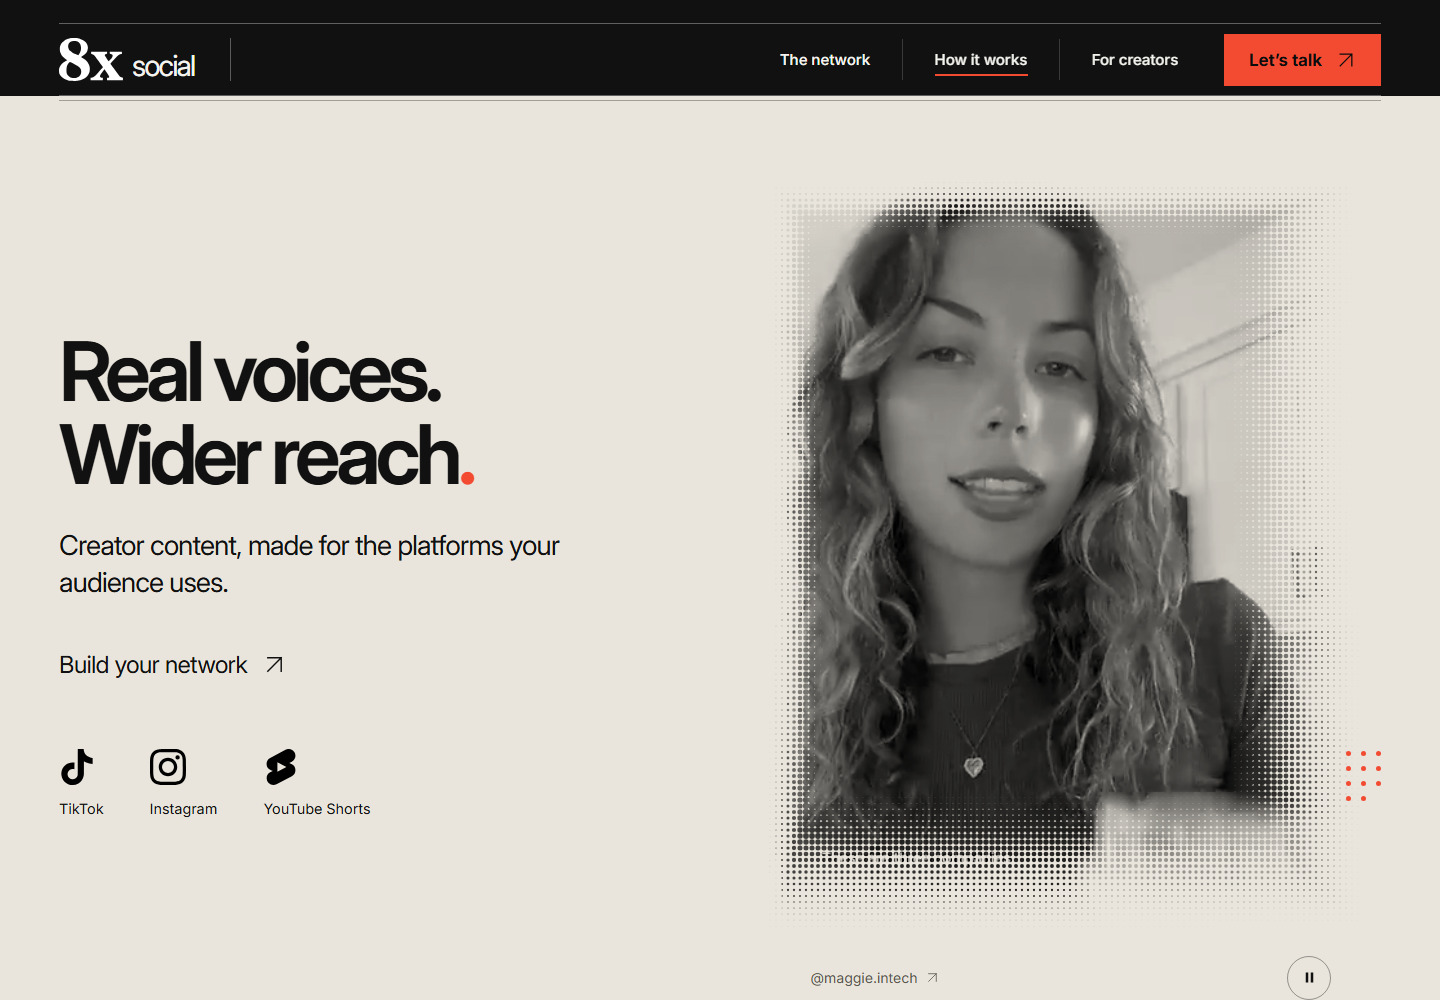
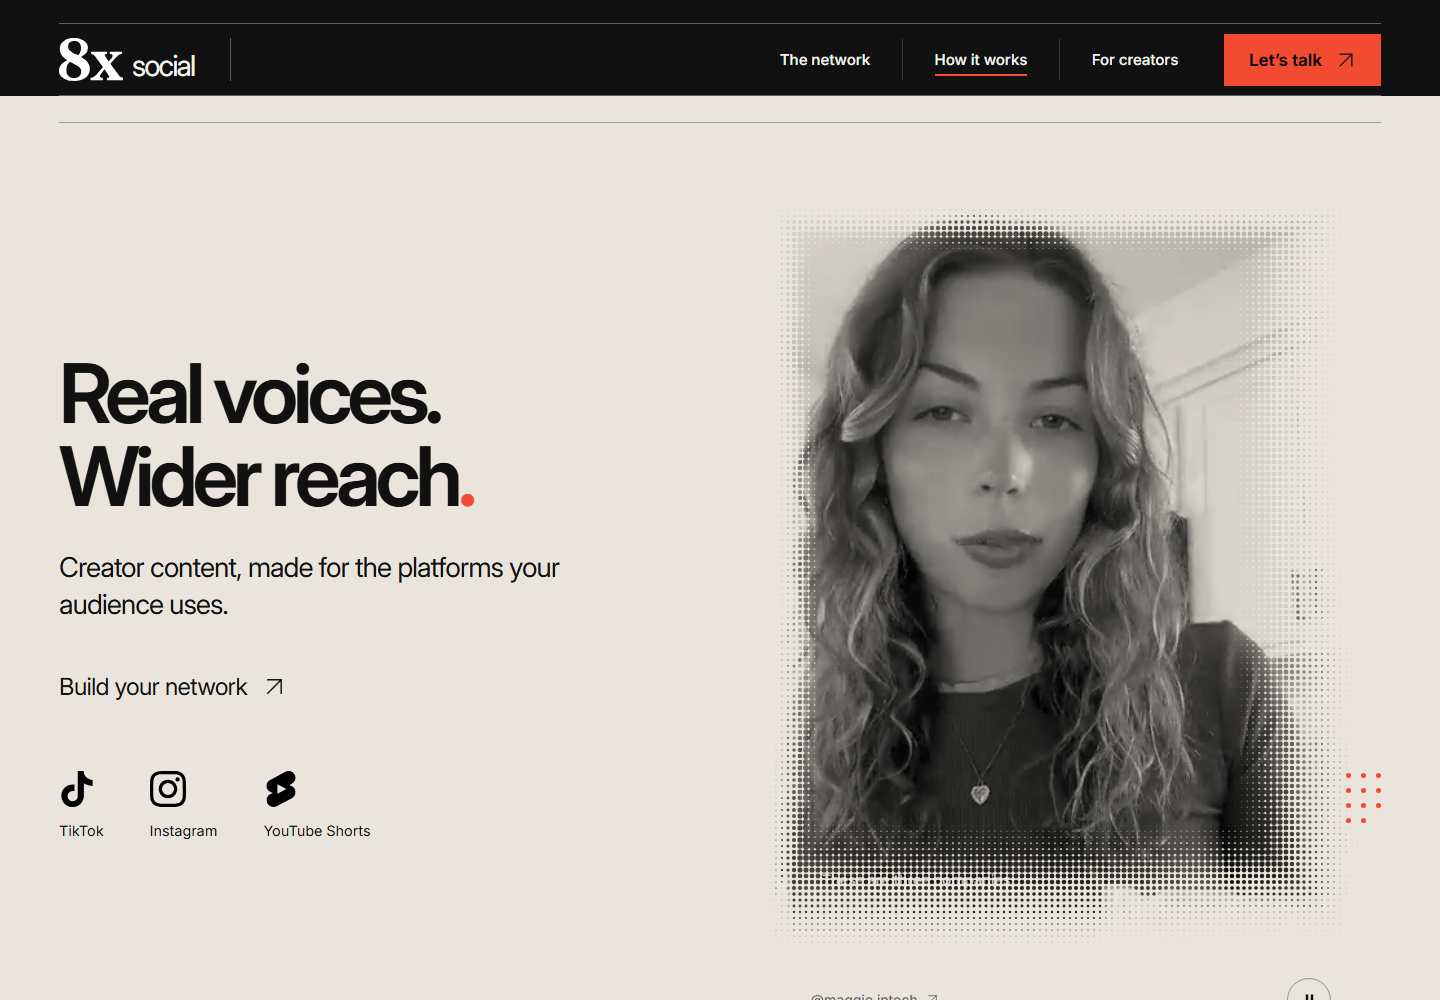
Enable visible reach autoplay and explore a product-led continuation

diff --git a/components/dot-reach.tsx b/components/dot-reach.tsx
@@ -8,13 +8,25 @@ export function DotReach() {
   const video = useRef<HTMLVideoElement>(null);
   const [playing, setPlaying] = useState(false);
   const [failed, setFailed] = useState(false);
+  const userPaused = useRef(false);
   useEffect(() => {
     const player = video.current!;
-    const observer = new IntersectionObserver(([entry]) => { if (!entry.isIntersecting) player.pause(); });
+    const reduced = matchMedia('(prefers-reduced-motion: reduce)');
+    let inView = false;
+    const sync = () => {
+      if (!inView || document.hidden || reduced.matches || userPaused.current) { player.pause(); return; }
+      player.muted = true;
+      // A blocked autoplay attempt leaves the normal Play control available.
+      void player.play().catch(() => {});
+    };
+    const observer = new IntersectionObserver(([entry]) => {
+      inView = entry.isIntersecting && entry.intersectionRatio >= .3;
+      sync();
+    }, { threshold: [0, .3], rootMargin: '-90px 0px 0px' });
     observer.observe(player);
-    const visibility = () => { if (document.hidden) player.pause(); };
-    document.addEventListener('visibilitychange', visibility);
-    return () => { observer.disconnect(); document.removeEventListener('visibilitychange', visibility); };
+    document.addEventListener('visibilitychange', sync);
+    reduced.addEventListener('change', sync);
+    return () => { observer.disconnect(); document.removeEventListener('visibilitychange', sync); reduced.removeEventListener('change', sync); };
   }, []);
   return <section className="dot-reach" id="reach" aria-labelledby="reach-title">
     <div className="reach-grid page-width">
@@ -38,8 +50,8 @@ export function DotReach() {
         </div>
         <figcaption><a href={reachCreator.source} target="_blank" rel="noreferrer">{reachCreator.handle}<Arrow /></a><button aria-label={(playing ? 'Pause' : 'Play') + ' reach video'} onClick={() => {
           const player = video.current!;
-          if (playing) player.pause();
-          else void player.play().catch(error => { if (error.name !== 'AbortError') setFailed(true); });
+          if (playing) { userPaused.current = true; player.pause(); }
+          else { userPaused.current = false; void player.play().catch(error => { if (error.name !== 'AbortError') setFailed(true); }); }
         }}><PlayIcon playing={playing} /></button></figcaption>
       </figure>
     </div>

diff --git a/tests/dot-reach.spec.ts b/tests/dot-reach.spec.ts
@@ -18,7 +18,6 @@ test('dot reach continues stone, uses unique footage and preserves a live raster
   const canvas = page.locator('.portrait-raster');
   const snapshot = await canvas.evaluate((c: HTMLCanvasElement) => c.toDataURL());
   await expect.poll(async () => (await canvas.evaluate((c: HTMLCanvasElement) => c.toDataURL())) !== snapshot).toBe(true);
-  await page.getByRole('button', { name: 'Play reach video', exact:true }).click();
   await expect(page.getByRole('button', {name:'Pause reach video',exact:true})).toBeVisible();
   await expect.poll(() => page.locator('.reach-portrait video').evaluate((v:HTMLVideoElement) => v.currentTime)).toBeGreaterThan(0);
   const after = await portrait.boundingBox();
@@ -26,6 +25,13 @@ test('dot reach continues stone, uses unique footage and preserves a live raster
   await page.screenshot({path:'docs/qa/dot-reach-desktop.png'});
   await page.evaluate(() => scrollTo({top:0,behavior:'instant'}));
   await expect.poll(() => page.locator('.reach-portrait video').evaluate((v:HTMLVideoElement) => v.paused)).toBe(true);
+  await reach.scrollIntoViewIfNeeded();
+  await expect(page.getByRole('button', {name:'Pause reach video',exact:true})).toBeVisible();
+  await page.getByRole('button', {name:'Pause reach video',exact:true}).click();
+  await page.evaluate(() => scrollTo({top:0,behavior:'instant'}));
+  await reach.scrollIntoViewIfNeeded();
+  await expect(page.getByRole('button', {name:'Play reach video',exact:true})).toBeVisible();
+  expect(await page.locator('.reach-portrait video').evaluate((v:HTMLVideoElement) => v.paused)).toBe(true);
   expect(errors).toEqual([]);
 });
 

diff --git a/docs/IMPLEMENTATION.md b/docs/IMPLEMENTATION.md
@@ -24,7 +24,7 @@ Production build and TypeScript checks pass. Ten serial Chromium behavioral test
 
 Day-to-day is included after CreatorWork, followed immediately by Dot Reach. Their CSS is in app/day-to-day.css and app/dot-reach.css. Both use #e9e5dc with no gap, colour wipe, transform of the full section or added sticky interval. The closing contact area continues this surface. The old concept route remains valid. Port 3904 is a local streaming proxy to the single production server on 3091 (npm run preview:alias).
 
-Dot Reach uses original Maggie footage with CSS grayscale/multiply and a canvas overlay whose round holes reveal the live video. Only the perimeter is drawn: the face and layout remain steady. Canvas DPR is capped at 1.5, animation at 24fps. The entry settles after 1.8 seconds and hover after 1.6 seconds; idle, offscreen and hidden-document loops stop. Native scroll adjusts only the edge pattern. Reduced motion is static. Both editorial videos start as posters and require deliberate muted playback, with offscreen pause and an original-source error link. No generated portrait or screenshot is used as runtime UI.
+Dot Reach uses original Maggie footage with CSS grayscale/multiply and a canvas overlay whose round holes reveal the live video. Only the perimeter is drawn: the face and layout remain steady. Canvas DPR is capped at 1.5, animation at 24fps. The entry settles after 1.8 seconds and hover after 1.6 seconds; idle, offscreen and hidden-document loops stop. Native scroll adjusts only the edge pattern. Reduced motion is static. Per the latest request, Maggie autoplays muted at 30% visibility, pauses offscreen/hidden, and resumes on re-entry unless deliberately paused. Reduced motion still requires deliberate playback. Liv remains manually played. Both have original-source error links. No generated portrait or screenshot is used as runtime UI. Production build and both targeted Dot Reach tests passed after the autoplay change; autoplay was visibly verified in the in-app browser.
 
 Creator rail: Nick, Mindful Witmee, Chow. Day-to-day: Liv. Dot Reach: Maggie. All five are separate creators from the original site's recent-work gallery; see docs/ASSETS.md and assets/creators/provenance.json. The three old demo assets remain for rollback but are not referenced by the current page. The hero montage remains only in the hero.
 

diff --git a/design/service-choice-v1/README.md b/design/service-choice-v1/README.md
@@ -1,0 +1,11 @@
+# Your network. Your way.
+
+REJECTED by user: abstract dot fan and service-selector composition did not meet their quality expectations. Not implemented. Retained only as rejection history. Exact prompt: prompts.json. Design: 01-section.png.
+
+Content basis: https://www.8x.social/en/for-brands — Self Serve and Full Service offerings. Visual reference: https://listenlabs.ai/ — consistent surfaces and small local state changes. Palette and typography continue the current 8x stone surface. No new video, repeated hero image, testimonial or pricing cards.
+
+Proposed interaction: a two-option text selector changes the service explanation and CTA while a single dot graphic settles between an open arrangement (Self Serve) and a coordinated fan (Full Service). All content reserves stable dimensions. Use a short local transition and keyboard-accessible tabs; static graphic under reduced motion. No whole-section motion, extra pinning or background wipe. Illustration is an abstract brand motif, not measured data.
+
+Full Service copy describes creative direction, coordination, content and payments. Self Serve would describe publishing jobs, choosing creators and reviewing submissions. Use verified destinations from lib/content.ts when implementing. Do not invent prices or campaign outcomes.
+
+The original Reach Atlas and orange #f34b32 remain planned near the end of the page. Preserve the map itself and build its approach within the same native document flow; do not replace it with this dot graphic or implement a new map during this proposal turn.

diff --git a/design/content-intelligence-v1/README.md b/design/content-intelligence-v1/README.md
@@ -1,0 +1,9 @@
+# The whole picture — proposal
+
+New direction after the user rejected the service-selector dot fan. Generated concept only, awaiting review. Image: 01-section.png; exact built-in generation prompt: prompts.json.
+
+Content basis: original 8x site analytics/product section, https://www.8x.social/en/for-brands. Reference screenshot: https://www.8x.social/assets/imgs/dashboard/new-dashboard.png, saved unchanged under references. The shown 140.1K Users, 120.6K Creators and 265 Videos are values within that existing product preview, not verified current platform totals or campaign results. The dot trend is explicitly labelled illustrative. Do not present these as live business metrics.
+
+Composition: one wide open product view within the continuous stone surface. Local Overview / Creators / Content controls, same margins, thin rules, restrained orange focus. Dots describe the product view rather than form an unrelated decorative fan. No portrait repetition or new colour scene. Proposed interaction changes just the product view inside a stable area; native document scrolling continues normally. Reduced motion is instantaneous. No implementation until approved.
+
+The original Reach Atlas and its orange remain required later near the end of the page. Keep its approved map intact when eventually integrating it. Do not replace it with this illustrative graph.

diff --git a/design/CURRENT-DIRECTION.md b/design/CURRENT-DIRECTION.md
@@ -1,5 +1,7 @@
 # Current design direction
 
+Latest follow-up: Maggie's Dot Reach video now starts muted when at least 30% is visible, pauses offscreen/hidden, resumes on re-entry, and respects deliberate pause and reduced motion. User rejected service-choice-v1's abstract dot fan. Replacement image proposal: [content-intelligence-v1](content-intelligence-v1/README.md), a wide analytics/product view using the original 8x dashboard as content reference, on the continuous stone surface. Not implemented or approved yet. User reiterated that the original orange map must be integrated later toward the end, in the same continuous page.
+
 Latest request: user approved [dot-reach-v1](dot-reach-v1/README.md) and asked to implement with distinct original-site creators throughout. The root homepage now includes Dot Reach directly after Day-to-day on the same stone surface, with a live raster perimeter over monochrome Maggie footage, compact platform marks and native scrolling. The creator-content rail uses Nick, Mindful Witmee and Chow; Day-to-day uses Liv. No clips repeat across sections, and the studio montage remains only in the hero. Port 3904 remains an alias to the single 3091 preview.
 
 Partner-continuation-v1 is rejected: conventional, insufficiently minimal and missing the dot concept. Do not implement it.
